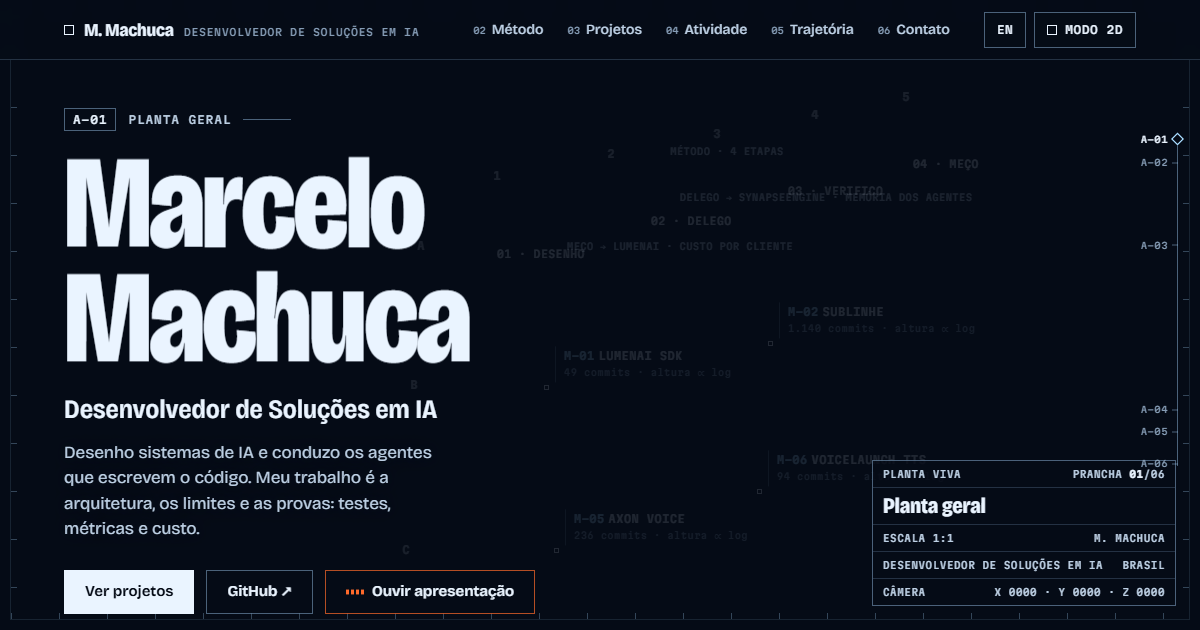
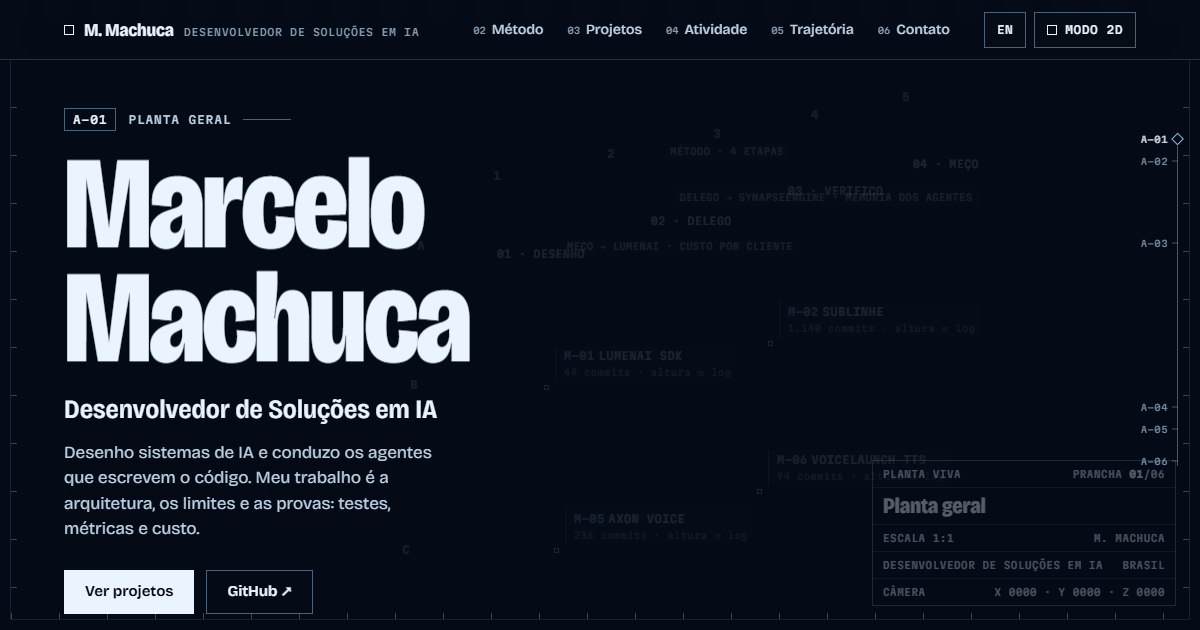
Remove the voice intro
The owner does not want any voice on the site. This drops the speech
button, captions, transcript and the plan's reaction to spoken words, and
regenerates the share image without the button.

diff --git a/assets/site.js b/assets/site.js
@@ -25,22 +25,6 @@ const TX = {
     commitsLog: ' commits · altura ∝ log',
     seeSheet: ' · ver folha ↓',
     contrib1: ' contribuição', contribN: ' contribuições',
-    voiceLang: 'pt-BR',
-    voice: [
-      'Olá. Eu sou Marcelo Machuca, desenvolvedor de soluções em inteligência artificial, no Brasil.',
-      'Comecei na medicina. Hoje desenho sistemas e conduzo uma frota de agentes que escrevem o código.',
-      'Meu trabalho é a arquitetura, os limites e as provas: testes, métricas e custo.',
-      'Esta página é a planta desse trabalho: as linhas claras são o que eu desenho, e os blocos laranja são os agentes que constroem.',
-      'Role para ver o método, os projetos, a atividade e o caminho da medicina até aqui. Estou aberto às primeiras oportunidades.'
-    ],
-    vRestart: 'Recomeçar', vAgain: 'Ouvir de novo',
-    vNone: 'Voz indisponível · ler transcrição',
-    vNoneNote: 'Este navegador não oferece síntese de voz. A transcrição está logo abaixo.',
-    vSpeaking: 'Falando… as legendas acompanham cada palavra. Esc ou “Parar” interrompe.',
-    vEstimated: 'Este navegador não informa as palavras faladas; aqui a sincronia é estimada.',
-    vDone: 'Voz sintética do navegador, em pt-BR. Nada toca sozinho.',
-    vFail: 'A voz falhou neste navegador. A transcrição está logo abaixo.',
-    vStopped: 'Interrompido. A transcrição está logo abaixo.'
   },
   en: {
     locale: 'en-US',
@@ -62,22 +46,6 @@ const TX = {
     commitsLog: ' commits · height ∝ log',
     seeSheet: ' · see sheet ↓',
     contrib1: ' contribution', contribN: ' contributions',
-    voiceLang: 'en-US',
-    voice: [
-      "Hi. I'm Marcelo Machuca, an AI solutions developer based in Brazil.",
-      'I started out in medicine. Today I design systems and direct a fleet of agents that write the code.',
-      'My job is the architecture, the limits and the proof: tests, metrics and cost.',
-      'This page is the blueprint of that work: the light lines are what I design, and the orange blocks are the agents that build it.',
-      'Scroll to see the method, the projects, the activity and the path from medicine to here. I am open to my first opportunities.'
-    ],
-    vRestart: 'Restart', vAgain: 'Listen again',
-    vNone: 'Voice unavailable · read the transcript',
-    vNoneNote: 'This browser has no speech synthesis. The transcript is right below.',
-    vSpeaking: 'Speaking… captions follow each word. Esc or “Stop” ends it.',
-    vEstimated: 'This browser does not report the spoken words, so caption timing is estimated.',
-    vDone: 'Browser speech synthesis, in English. Nothing plays on its own.',
-    vFail: 'Speech failed in this browser. The transcript is right below.',
-    vStopped: 'Stopped. The transcript is right below.'
   }
 }[LANG];
 const $ = (s, c = document) => c.querySelector(s);
@@ -187,113 +155,10 @@ function cursorFrame() {
   curLab.style.transform = 'translate3d(' + lx + 'px,' + (pmy + 16) + 'px,0)';
 }
 
-/* ---------- voice intro (from Frequência): speechSynthesis + word-by-word captions ----------
-   Each spoken word adds energy to VOICE.e; the plan's hairlines, bloom and agents read it. */
-const VOICE = { e: 0 };
-const synth = ('speechSynthesis' in window && typeof window.SpeechSynthesisUtterance === 'function') ? window.speechSynthesis : null;
-const btnVoice = $('#btnVoice'), btnStop = $('#btnStop'), voiceNote = $('#voiceNote'), transcript = $('#transcript'), capEl = $('#captions');
-const vLbl = $('.vlbl', btnVoice);
-let voice = null, vSession = 0, vTimers = [], gotBoundary = false, estimated = false, capWords = [], capFade = 0, speaking = false;
-function pickVoice() {
-  if (!synth) return null;
-  const vs = synth.getVoices() || [], want = TX.voiceLang.toLowerCase(), base = want.slice(0, 2);
-  const lang = v => (v.lang || '').replace('_', '-').toLowerCase();
-  // natural/local voices report word boundaries more reliably than the Google network voices
-  const score = v => (/natural/i.test(v.name) ? 4 : 0) + (v.localService ? 2 : 0) + (/google/i.test(v.name) ? 0 : 1);
-  const best = arr => arr.slice().sort((a, b) => score(b) - score(a))[0] || null;
-  return best(vs.filter(v => lang(v) === want)) || best(vs.filter(v => lang(v).indexOf(base) === 0));
-}
-function addCaption(w) {
-  capWords.push(w); if (capWords.length > 9) capWords.shift();
-  capEl.textContent = '';
-  capWords.forEach((x, i) => { const s = document.createElement('span'); s.textContent = x + ' '; if (i === capWords.length - 1) s.className = 'now'; capEl.appendChild(s); });
-  capEl.classList.add('on'); clearTimeout(capFade);
-}
-function onWord(w) {
-  const len = w.replace(/[^\p{L}\p{N}]/gu, '').length;
-  VOICE.e = Math.min(1.5, VOICE.e + 0.42 + Math.min(len, 10) * 0.045);
-  addCaption(w);
-}
-function wordsOf(text) { const out = []; text.replace(/\S+/g, (m, i) => { out.push({ w: m, i }); return m; }); return out; }
-function estimate(words, session, startedAt) {
-  let t = startedAt;
-  words.forEach(x => {
-    vTimers.push(setTimeout(() => { if (session === vSession) onWord(x.w); }, Math.max(0, t - performance.now())));
-    t += 120 + x.w.length * 62 + (/[.:]$/.test(x.w) ? 380 : /,$/.test(x.w) ? 220 : 0);
-  });
-}
-function clearVoiceTimers() { vTimers.forEach(clearTimeout); vTimers = []; }
-function finishVoice() {
-  clearVoiceTimers(); speaking = false; root.classList.remove('speaking');
-  btnStop.hidden = true; vLbl.textContent = TX.vAgain;
-  capFade = setTimeout(() => { capEl.classList.remove('on'); capWords = []; }, 2600);
-}
-function stopVoice() { vSession++; if (synth) synth.cancel(); finishVoice(); }
-function speakIntro() {
-  if (!synth) { voiceNote.textContent = TX.vNoneNote; transcript.open = true; return; }
-  const session = ++vSession;
-  clearVoiceTimers(); clearTimeout(capFade); gotBoundary = false; estimated = false; capWords = []; capEl.textContent = '';
-  speaking = true; root.classList.add('speaking'); btnStop.hidden = false;
-  vLbl.textContent = TX.vRestart; voiceNote.textContent = TX.vSpeaking;
-  voice = voice || pickVoice();
-  const go = () => {
-    if (session !== vSession) return;
-    TX.voice.forEach((sent, si) => {
-      const u = new window.SpeechSynthesisUtterance(sent), words = wordsOf(sent);
-      let lastI = -1;
-      u.lang = TX.voiceLang; if (voice) u.voice = voice; u.rate = 1; u.pitch = 1;
-      u.onstart = () => {
-        if (session !== vSession) return;
-        const started = performance.now();
-        if (estimated) { estimate(words, session, started); return; }
-        if (!gotBoundary) vTimers.push(setTimeout(() => {
-          if (session !== vSession || gotBoundary) return;
-          estimated = true; estimate(words, session, started);
-          voiceNote.textContent = TX.vEstimated;
-        }, 700));
-      };
-      u.onboundary = e => {
-        if (session !== vSession || estimated) return;
-        if (e.name && e.name !== 'word') return;
-        gotBoundary = true;
-        let w = null;
-        for (let k = 0; k < words.length; k++) { if (words[k].i <= e.charIndex) w = words[k]; else break; }
-        if (w && w.i !== lastI) { lastI = w.i; onWord(w.w); }
-      };
-      u.onend = () => { if (session === vSession && si === TX.voice.length - 1) { voiceNote.textContent = TX.vDone; finishVoice(); } };
-      u.onerror = e => {
-        if (session !== vSession || e.error === 'interrupted' || e.error === 'canceled') return;
-        vSession++; synth.cancel();
-        voiceNote.textContent = TX.vFail; transcript.open = true; finishVoice();
-      };
-      synth.speak(u);
-    });
-  };
-  if (synth.speaking || synth.pending) { synth.cancel(); setTimeout(go, 90); } else go();
-}
-if (!synth) { vLbl.textContent = TX.vNone; voiceNote.textContent = TX.vNoneNote; }
-else { voice = pickVoice(); if (synth.addEventListener) synth.addEventListener('voiceschanged', () => { voice = pickVoice(); }); }
-btnVoice.addEventListener('click', speakIntro);
-btnStop.addEventListener('click', () => { stopVoice(); voiceNote.textContent = TX.vStopped; btnVoice.focus(); });
-window.addEventListener('pagehide', () => { if (synth) synth.cancel(); });
-/* the name letters ride the voice too */
-let nameChars = null, wob = false;
-function wobbleName() {
-  if (!MOTION) return;
-  if (!nameChars) nameChars = $$('.name .ch');
-  if (VOICE.e > 0.03) {
-    wob = true;
-    const t = performance.now() / 1000;
-    nameChars.forEach((c, i) => { c.style.transform = 'translateY(' + (Math.sin(t * 13 + i * 0.8) * VOICE.e * 0.05).toFixed(3) + 'em)'; });
-  } else if (wob) { wob = false; nameChars.forEach(c => { c.style.transform = ''; }); }
-}
-
 /* ---------- one loop: gsap.ticker drives Lenis, WebGL and the cursor ---------- */
 function tick(time, deltaMs) {
   if (lenis) lenis.raf(time * 1000);
-  VOICE.e *= Math.exp(-((deltaMs || 16.7) / 1000) * 2.6);
   if (GL) GL.frame((deltaMs || 16.7) / 1000);
-  wobbleName();
   cursorFrame();
 }
 if (HAS_GSAP) { gsap.ticker.add(tick); gsap.ticker.lagSmoothing(0); }
@@ -303,7 +168,7 @@ else { let last = performance.now(); const loop = now => { tick(now / 1000, now 
 const menuBtn = $('#menuBtn');
 function closeMenu() { root.classList.remove('nav-open'); menuBtn.setAttribute('aria-expanded', 'false'); }
 menuBtn.addEventListener('click', () => { const o = !root.classList.contains('nav-open'); root.classList.toggle('nav-open', o); menuBtn.setAttribute('aria-expanded', String(o)); });
-window.addEventListener('keydown', e => { if (e.key === 'Escape') { closeMenu(); if (speaking) stopVoice(); } });
+window.addEventListener('keydown', e => { if (e.key === 'Escape') closeMenu(); });
 function goTo(t) {
   const isSec = t.tagName === 'SECTION';
   const off = isSec ? 0 : -Math.max(84, (window.innerHeight - t.offsetHeight) / 2);
@@ -879,7 +744,6 @@ function createWorld([THREE, { EffectComposer }, { RenderPass }, { UnrealBloomPa
     out[0] = -w / 2; out[1] = d / 2 - s;
   }
   function updateAgents(dt) {
-    const VE = VOICE.e;
     ringS += ((chapterNow === 5 ? 0.82 : 1) - ringS) * Math.min(1, dt * 0.8);
     const wave = FX0 + clamp((T - calT0 - 0.2) / 1.8, 0, 1) * 52 * P, rep = ringOK && !overUI;
     for (let i = 0; i < N; i++) {
@@ -919,12 +783,11 @@ function createWorld([THREE, { EffectComposer }, { RenderPass }, { UnrealBloomPa
       AP[o] = px; AP[o + 1] = py; AP[o + 2] = pz;
       const ex = px - camera.position.x, ey = py - camera.position.y, ez = pz - camera.position.z;
       sc *= clamp((Math.sqrt(ex * ex + ey * ey + ez * ez) - 6) / 24, 0, 1); // no giant cubes in front of the lens
-      if (r < 0 && VE > 0.01) sc *= 1 + VE * 0.6; // free agents swell and hop while the voice speaks
       const ang = T * (0.7 + ph * 1.8) + ph * 10, ca = Math.cos(ang) * sc, sa = Math.sin(ang) * sc, q = i * 16;
       m4[q] = ca; m4[q + 1] = 0; m4[q + 2] = -sa; m4[q + 3] = 0;
       m4[q + 4] = sa * TS; m4[q + 5] = TC * sc; m4[q + 6] = ca * TS; m4[q + 7] = 0;
       m4[q + 8] = sa * TC; m4[q + 9] = -TS * sc; m4[q + 10] = ca * TC; m4[q + 11] = 0;
-      m4[q + 12] = px; m4[q + 13] = r < 0 ? py + VE * (0.6 + 2 * rr) * Math.max(0, Math.sin(T * 9 + ph * 37)) : py; m4[q + 14] = pz; m4[q + 15] = 1;
+      m4[q + 12] = px; m4[q + 13] = py; m4[q + 14] = pz; m4[q + 15] = 1;
     }
     agents.instanceMatrix.needsUpdate = true;
   }
@@ -1035,8 +898,7 @@ function createWorld([THREE, { EffectComposer }, { RenderPass }, { UnrealBloomPa
   const composer = new EffectComposer(renderer, rt);
   composer.setPixelRatio(DPR); composer.setSize(W, H);
   composer.addPass(new RenderPass(scene, camera));
-  const BLOOM0 = LOW ? 0.38 : 0.46, bloom = new UnrealBloomPass(new THREE.Vector2(W, H), BLOOM0, 0.32, 0.3);
-  composer.addPass(bloom);
+  composer.addPass(new UnrealBloomPass(new THREE.Vector2(W, H), LOW ? 0.38 : 0.46, 0.32, 0.3));
   const grainPass = new ShaderPass(GRAIN); composer.addPass(grainPass);
   composer.addPass(new OutputPass());
 
@@ -1050,7 +912,6 @@ function createWorld([THREE, { EffectComposer }, { RenderPass }, { UnrealBloomPa
     updateCamera(dt);
     if (frameN % 2 === 0) pick();
     updateAgents(dt); updateBricks(); updateMods(dt);
-    bloom.strength = BLOOM0 * (1 + VOICE.e * 0.9); matPlan.uniforms.uOpacity.value = 0.78 * (1 + VOICE.e * 0.4);
     gridMat.uniforms.uCam.value.copy(camera.position);
     matFlow.uniforms.uTime.value = T; grainPass.uniforms.uTime.value = T;
     updateLabels();

diff --git a/index.html b/index.html
@@ -46,7 +46,6 @@
 <div id="intro" aria-hidden="true"><div class="intro-num" id="introNum">000</div><p>Prancha 01/06 · traçando a planta</p></div>
 <button class="intro-skip" id="introSkip" type="button">Pular intro</button>
 <div id="cursor" aria-hidden="true"><i class="cx-h"></i><i class="cx-v"></i><i class="cx-box"></i><span class="cx-lab" id="cursorLab">x 0000 · y 0000</span></div>
-<p class="captions" id="captions" aria-hidden="true"></p>
 
 <header class="hdr">
   <a class="brand" href="#topo"><span class="brand-mark" aria-hidden="true"></span>M. Machuca<small>Desenvolvedor de Soluções em IA</small></a>
@@ -75,12 +74,6 @@
       <div class="ctas hv">
         <a class="btn btn-solid" href="#projetos">Ver projetos</a>
         <a class="btn" href="https://github.com/skarL007" target="_blank" rel="noopener">GitHub ↗</a>
-        <button class="btn btn-voice" id="btnVoice" type="button" aria-describedby="voiceNote"><span class="bars" aria-hidden="true"><i></i><i></i><i></i><i></i></span><span class="vlbl">Ouvir apresentação</span></button>
-        <button class="btn" id="btnStop" type="button" hidden>Parar</button>
-      </div>
-      <div class="voice-row hv">
-        <p class="voice-note" id="voiceNote">Voz sintética do navegador, em pt-BR, cerca de 25 s. Nada toca sozinho.</p>
-        <details class="transcript" id="transcript"><summary>Ler a transcrição</summary><p>Olá. Eu sou Marcelo Machuca, desenvolvedor de soluções em inteligência artificial, no Brasil. Comecei na medicina. Hoje desenho sistemas e conduzo uma frota de agentes que escrevem o código. Meu trabalho é a arquitetura, os limites e as provas: testes, métricas e custo. Esta página é a planta desse trabalho: as linhas claras são o que eu desenho, e os blocos laranja são os agentes que constroem. Role para ver o método, os projetos, a atividade e o caminho da medicina até aqui. Estou aberto às primeiras oportunidades.</p></details>
       </div>
       <p class="meta hv"><span class="dot" aria-hidden="true"></span>Brasil · aberto a primeiras oportunidades</p>
       <ul class="legend hv" aria-label="Como ler a planta">

diff --git a/assets/site.css b/assets/site.css
@@ -280,26 +280,6 @@ main{position:relative;z-index:2}
 .t-short{display:none}
 @media (max-width:480px){.hdr{gap:12px}.hdr-tools{gap:6px}.t-long{display:none}.t-short{display:inline}.brand{font-size:16px}}
 
-/* ---------- voice intro (from Frequência) ---------- */
-.btn-voice{border-color:rgba(255,106,43,.7)}
-.btn-voice:hover{border-color:var(--accent)}
-.bars{display:inline-flex;align-items:center;gap:2px;height:14px}
-.bars i{display:block;width:3px;height:14px;background:var(--accent);transform:scaleY(.35)}
-.speaking .bars i{animation:eq .62s ease-in-out infinite alternate}
-.speaking .bars i:nth-child(2){animation-delay:-.21s}
-.speaking .bars i:nth-child(3){animation-delay:-.43s}
-.speaking .bars i:nth-child(4){animation-delay:-.11s}
-@keyframes eq{to{transform:scaleY(1)}}
-.voice-row{display:flex;flex-wrap:wrap;align-items:center;gap:0 16px;margin:10px 0 0}
-.voice-note{margin:0;font:500 10px/1.5 var(--mono);letter-spacing:.04em;text-transform:uppercase;color:var(--mute)}
-.transcript summary{display:inline-flex;align-items:center;min-height:44px;font:500 10px/1 var(--mono);letter-spacing:.06em;text-transform:uppercase;color:var(--fg-2);text-decoration:underline;text-underline-offset:3px;cursor:pointer}
-.transcript summary:hover{color:var(--fg)}
-.transcript[open]{flex-basis:100%}
-.transcript p{max-width:60ch;margin:0 0 4px;padding:12px 14px;border-left:2px solid var(--accent);background:rgba(5,11,22,.78);font-size:15px;color:var(--fg-2)}
-.captions{position:fixed;left:50%;bottom:calc(24px + env(safe-area-inset-bottom, 0px));z-index:45;width:min(720px,calc(100vw - 32px));margin:0;padding:10px 16px;transform:translateX(-50%);background:rgba(5,11,22,.92);border:1px solid var(--line-2);font:620 clamp(16px,1.5vw,20px)/1.4 var(--display);color:var(--fg-2);text-align:center;opacity:0;visibility:hidden;pointer-events:none;transition:opacity .4s,visibility .4s}
-.captions.on{opacity:1;visibility:visible}
-.captions .now{color:var(--accent)}
-.speaking .tblock{opacity:0}
 .foot .foot-src{margin-top:4px}
 
 /* ---------- real screenshots on the project sheets ---------- */

diff --git a/en/index.html b/en/index.html
@@ -46,7 +46,6 @@
 <div id="intro" aria-hidden="true"><div class="intro-num" id="introNum">000</div><p>Sheet 01/06 · drawing the plan</p></div>
 <button class="intro-skip" id="introSkip" type="button">Skip intro</button>
 <div id="cursor" aria-hidden="true"><i class="cx-h"></i><i class="cx-v"></i><i class="cx-box"></i><span class="cx-lab" id="cursorLab">x 0000 · y 0000</span></div>
-<p class="captions" id="captions" aria-hidden="true"></p>
 
 <header class="hdr">
   <a class="brand" href="#topo"><span class="brand-mark" aria-hidden="true"></span>M. Machuca<small>AI Solutions Developer</small></a>
@@ -75,12 +74,6 @@
       <div class="ctas hv">
         <a class="btn btn-solid" href="#projetos">See projects</a>
         <a class="btn" href="https://github.com/skarL007" target="_blank" rel="noopener">GitHub ↗</a>
-        <button class="btn btn-voice" id="btnVoice" type="button" aria-describedby="voiceNote"><span class="bars" aria-hidden="true"><i></i><i></i><i></i><i></i></span><span class="vlbl">Listen to the intro</span></button>
-        <button class="btn" id="btnStop" type="button" hidden>Stop</button>
-      </div>
-      <div class="voice-row hv">
-        <p class="voice-note" id="voiceNote">Browser speech synthesis, about 25 s. Nothing plays on its own.</p>
-        <details class="transcript" id="transcript"><summary>Read the transcript</summary><p>Hi. I'm Marcelo Machuca, an AI solutions developer based in Brazil. I started out in medicine. Today I design systems and direct a fleet of agents that write the code. My job is the architecture, the limits and the proof: tests, metrics and cost. This page is the blueprint of that work: the light lines are what I design, and the orange blocks are the agents that build it. Scroll to see the method, the projects, the activity and the path from medicine to here. I am open to my first opportunities.</p></details>
       </div>
       <p class="meta hv"><span class="dot" aria-hidden="true"></span>Brazil · open to first opportunities</p>
       <ul class="legend hv" aria-label="How to read the plan">

diff --git a/README.md b/README.md
@@ -15,10 +15,6 @@ coding agents that build it. As you scroll, the camera flies over the plan:
 - **Activity:** my real GitHub contribution calendar, stacked block by block.
 - **Path:** the timeline from medicine to AI.
 
-A voice intro ("Ouvir apresentação" / "Listen to the intro") reads a short presentation with the
-browser's speech synthesis, with word-by-word captions. The plan reacts to each spoken word. Nothing
-plays on its own, and a full transcript sits right under the button.
-
 ## How it was built
 
 I built this site the same way I build everything else: I designed it and set the limits, and AI
